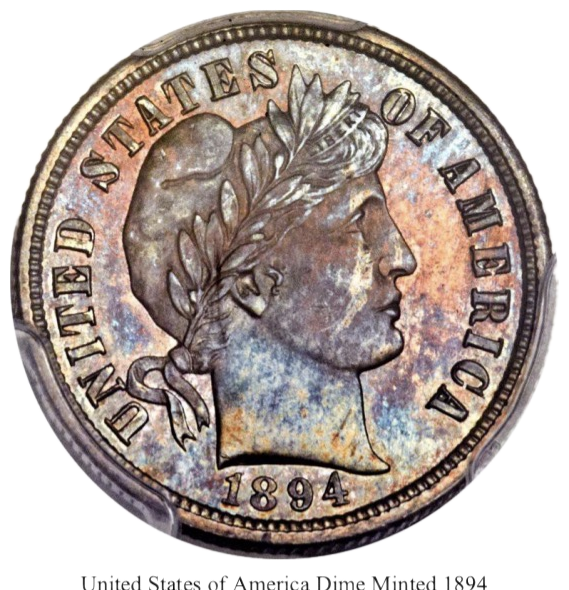
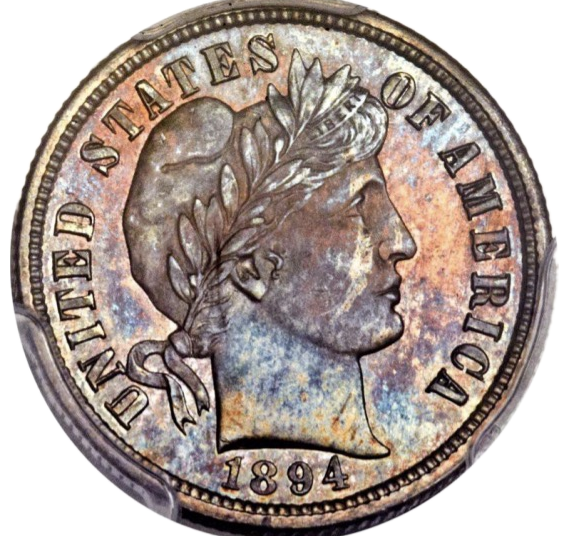
Fix dime images: restore 2001 left rim, remove baked-in captions

diff --git a/10-cent-dreams.html b/10-cent-dreams.html
@@ -112,7 +112,7 @@
     <p>Mom, did I ever tell you everywhere I go I carry a small coin? Yes, a thin silver American dime minted in Denver, Colorado in the year 2001. The same 10-cent cost of the very first comic books of the late 1930s; with their self-contained gifted dreams of hope transcribed across pages transporting readers beyond literary verse and artistic design down pathways of endless imagination.</p>
 
     <figure class="shot coin" style="max-width:480px">
-      <img src="tcd-dime-2001.png" alt="Front and back of a United States dime minted in 2001, showing Roosevelt's profile and the torch with olive and oak branches" loading="lazy" width="516" height="284" />
+      <img src="tcd-dime-2001.png" alt="Front and back of a United States dime minted in 2001, showing Roosevelt's profile and the torch with olive and oak branches" loading="lazy" width="572" height="269" />
       <figcaption><span class="g">&gt;</span> United States of America Dime Minted in Denver, Colorado 2001</figcaption>
     </figure>
 
@@ -158,7 +158,7 @@
     <p>Yet, even with all that technological change and addictive innovation, the simple thin coin still exists, reminding us through engraved words to carry the dream of possibility on through time. Minted as a value in time and symbolic reminder that we're given an opportunity to share life's journey improving society alone or hand-in-hand with someone special. I came to learn that like the beginning of every great comic story, two people are teamed up to make it successful; a writer and an artist. One who tells the story through a language of creative vocabulary. And the other who tells the story through their visual talent and personal expression of artistic design to canvas. Without an author, an image is only a reflection of a partial story lacking any literary context. And without an artist, a reader is left to define an end-state of visual imagination through an interpretation of author-defined verse.</p>
 
     <figure class="shot coin" style="max-width:380px">
-      <img src="tcd-dime-1894.png" alt="A toned United States Barber dime minted in 1894, showing Liberty's profile with a laurel wreath" loading="lazy" width="569" height="590" />
+      <img src="tcd-dime-1894.png" alt="A toned United States Barber dime minted in 1894, showing Liberty's profile with a laurel wreath" loading="lazy" width="569" height="536" />
       <figcaption><span class="g">&gt;</span> United States of America Dime Minted 1894</figcaption>
     </figure>
 
